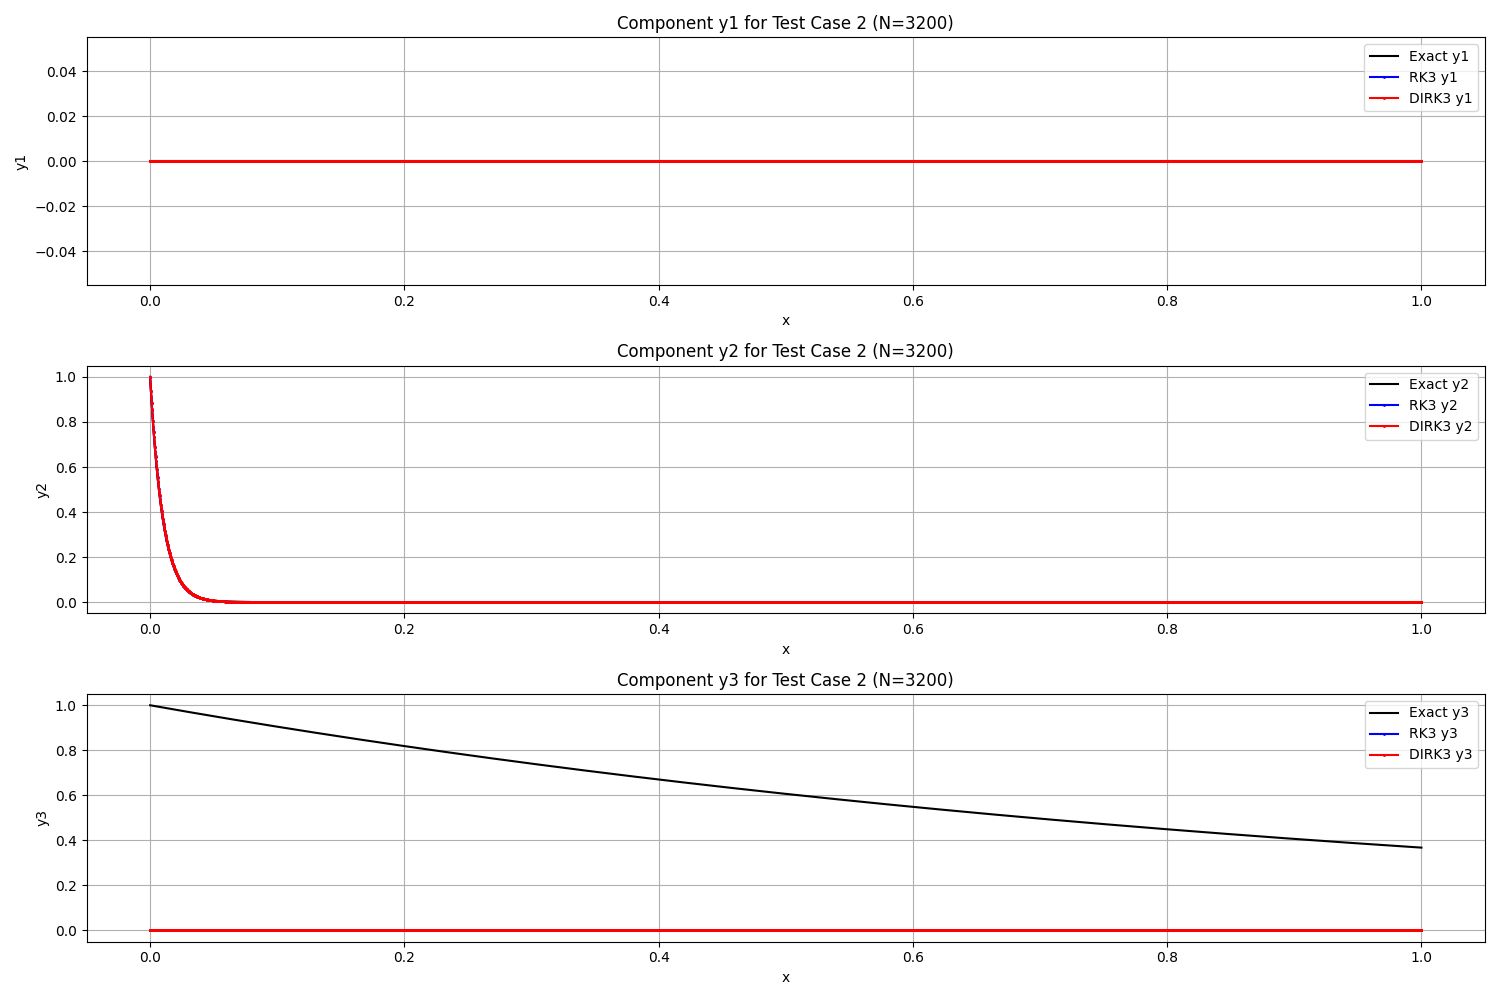
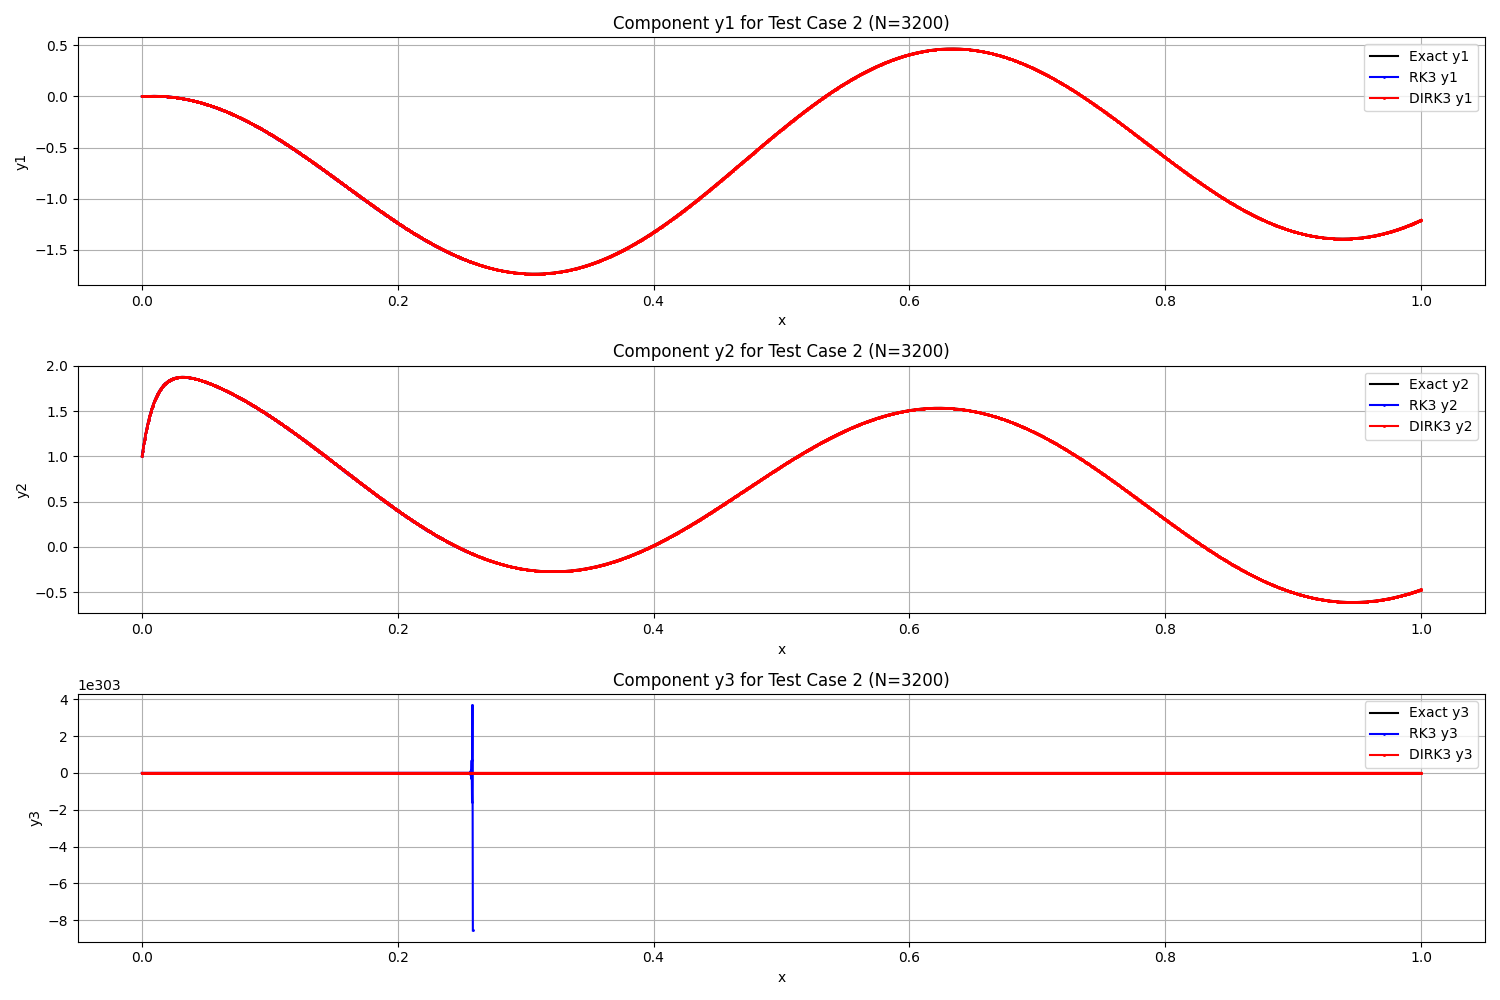
take 2

diff --git a/runge_kutta.py b/runge_kutta.py
@@ -2,11 +2,11 @@ import numpy as np
 
 def rk3(A, bvector, yo, interval, N):
     """
-    Implements the explicit third-order Runge-Kutta method for solving the ODE system dy/dx = A y + bvector.
+    Implements the explicit third-order Runge-Kutta method as specified in Equation 8.
 
     Parameters:
-    A (numpy.ndarray): The matrix A in the system dy/dx = A y + bvector. Should be a 2D array of shape (d, d) where d is the dimension.
-    bvector (numpy.ndarray): The vector b in the system. Should be a 1D array of shape (d,).
+    A (numpy.ndarray): The matrix A in the system dy/dx = A y + b(x). Should be a 2D array of shape (d, d) where d is the dimension.
+    bvector (callable): The function b(x) in the system. Should be a function that takes a float x and returns a 1D numpy array of shape (d,).
     yo (numpy.ndarray): Initial condition y(0). Should be a 1D array of shape (d,).
     interval (list or tuple): The interval [a, b] over which to solve.
     N (int): Number of steps.
@@ -21,8 +21,8 @@ def rk3(A, bvector, yo, interval, N):
     d = A.shape[0]
     if A.shape[1] != d:
         raise ValueError("A must be square.")
-    if not isinstance(bvector, np.ndarray) or bvector.shape != (d,):
-        raise ValueError("bvector must be a 1D numpy array of shape ({},).".format(d))
+    if not callable(bvector):
+        raise ValueError("bvector must be a callable function that takes x and returns a 1D numpy array of shape ({},).".format(d))
     if not isinstance(yo, np.ndarray) or yo.shape != (d,):
         raise ValueError("yo must be a 1D numpy array of shape ({},).".format(d))
     if not isinstance(interval, (list, tuple)) or len(interval) != 2:
@@ -33,35 +33,30 @@ def rk3(A, bvector, yo, interval, N):
     if not isinstance(N, (int, np.integer)) or N <= 0:
         raise ValueError("N must be a positive integer.")
 
-    # Butcher tableau for explicit RK3
-    c = np.array([0, 0.5, 1])
-    A_rk = np.array([
-        [0, 0, 0],
-        [0.5, 0, 0],
-        [-1, 2, 0]
-    ])
-    b_rk = np.array([1/6, 2/3, 1/6])
-
     h = (b - a) / N
     x = np.linspace(a, b, N+1)
     y = np.zeros((N+1, d))
     y[0] = yo
 
     for n in range(N):
-        k1 = A @ y[n] + bvector
-        k2 = A @ (y[n] + h * A_rk[1,0] * k1) + bvector
-        k3 = A @ (y[n] + h * (A_rk[2,0] * k1 + A_rk[2,1] * k2)) + bvector
-        y[n+1] = y[n] + h * (b_rk[0] * k1 + b_rk[1] * k2 + b_rk[2] * k3)
+        x_n = x[n]
+        y_n = y[n]
+        # y^{(1)} = y_n + h [A y_n + b(x_n)]
+        y1 = y_n + h * (A @ y_n + bvector(x_n))
+        # y^{(2)} = (3/4) y_n + (1/4) y^{(1)} + (1/4) h [A y^{(1)} + b(x_n + h)]
+        y2 = (3/4) * y_n + (1/4) * y1 + (1/4) * h * (A @ y1 + bvector(x_n + h))
+        # y_{n+1} = (1/3) y_n + (2/3) y^{(2)} + (2/3) h [A y^{(2)} + b(x_n + h)]
+        y[n+1] = (1/3) * y_n + (2/3) * y2 + (2/3) * h * (A @ y2 + bvector(x_n + h))
 
     return x, y
 
 def dirk3(A, bvector, yo, interval, N):
     """
-    Implements the diagonally implicit third-order Runge-Kutta method for solving the ODE system dy/dx = A y + bvector.
+    Implements the diagonally implicit third-order Runge-Kutta method as specified in Equations 9 and 10.
 
     Parameters:
-    A (numpy.ndarray): The matrix A in the system dy/dx = A y + bvector. Should be a 2D array of shape (d, d) where d is the dimension.
-    bvector (numpy.ndarray): The vector b in the system. Should be a 1D array of shape (d,).
+    A (numpy.ndarray): The matrix A in the system dy/dx = A y + b(x). Should be a 2D array of shape (d, d) where d is the dimension.
+    bvector (callable): The function b(x) in the system. Should be a function that takes a float x and returns a 1D numpy array of shape (d,).
     yo (numpy.ndarray): Initial condition y(0). Should be a 1D array of shape (d,).
     interval (list or tuple): The interval [a, b] over which to solve.
     N (int): Number of steps.
@@ -76,8 +71,8 @@ def dirk3(A, bvector, yo, interval, N):
     d = A.shape[0]
     if A.shape[1] != d:
         raise ValueError("A must be square.")
-    if not isinstance(bvector, np.ndarray) or bvector.shape != (d,):
-        raise ValueError("bvector must be a 1D numpy array of shape ({},).".format(d))
+    if not callable(bvector):
+        raise ValueError("bvector must be a callable function that takes x and returns a 1D numpy array of shape ({},).".format(d))
     if not isinstance(yo, np.ndarray) or yo.shape != (d,):
         raise ValueError("yo must be a 1D numpy array of shape ({},).".format(d))
     if not isinstance(interval, (list, tuple)) or len(interval) != 2:
@@ -88,34 +83,29 @@ def dirk3(A, bvector, yo, interval, N):
     if not isinstance(N, (int, np.integer)) or N <= 0:
         raise ValueError("N must be a positive integer.")
 
-    # Butcher tableau for DIRK3
-    gamma = (3 + np.sqrt(3)) / 6
-    c = np.array([gamma, 1, 1])
-    A_rk = np.array([
-        [gamma, 0, 0],
-        [1 - 2*gamma, gamma, 0],
-        [0.5 - gamma, 2*gamma - 1, gamma]
-    ])
-    b_rk = np.array([0, 0.5, 0.5])
+    # Coefficients from Equation 10
+    mu = 0.5 * (1 - 1 / np.sqrt(3))
+    nu = 0.5 * (np.sqrt(3) - 1)
+    gamma = 3 / (2 * (3 + np.sqrt(3)))
+    lambda_ = 3 * (1 + np.sqrt(3)) / (2 * (3 + np.sqrt(3)))
 
     h = (b - a) / N
     x = np.linspace(a, b, N+1)
     y = np.zeros((N+1, d))
     y[0] = yo
 
+    M = np.eye(d) - h * mu * A
+
     for n in range(N):
-        # Stage 1
-        rhs1 = A @ y[n] + bvector
-        k1 = np.linalg.solve(np.eye(d) - h * gamma * A, rhs1)
-
-        # Stage 2
-        rhs2 = A @ (y[n] + h * A_rk[1,0] * k1) + bvector
-        k2 = np.linalg.solve(np.eye(d) - h * gamma * A, rhs2)
-
-        # Stage 3
-        rhs3 = A @ (y[n] + h * (A_rk[2,0] * k1 + A_rk[2,1] * k2)) + bvector
-        k3 = np.linalg.solve(np.eye(d) - h * gamma * A, rhs3)
-
-        y[n+1] = y[n] + h * (b_rk[0] * k1 + b_rk[1] * k2 + b_rk[2] * k3)
+        x_n = x[n]
+        y_n = y[n]
+        # Solve for y^{(1)}: [I - h mu A] y^{(1)} = y_n + h mu b(x_n + h mu)
+        RHS1 = y_n + h * mu * bvector(x_n + h * mu)
+        y1 = np.linalg.solve(M, RHS1)
+        # Solve for y^{(2)}: [I - h mu A] y^{(2)} = y^{(1)} + h nu [A y^{(1)} + b(x_n + h mu)] + h mu b(x_n + h nu + 2 h mu)
+        RHS2 = y1 + h * nu * (A @ y1 + bvector(x_n + h * mu)) + h * mu * bvector(x_n + h * nu + 2 * h * mu)
+        y2 = np.linalg.solve(M, RHS2)
+        # y_{n+1} = (1 - lambda) y_n + lambda y^{(2)} + h gamma [A y^{(2)} + b(x_n + h nu + 2 h mu)]
+        y[n+1] = (1 - lambda_) * y_n + lambda_ * y2 + h * gamma * (A @ y2 + bvector(x_n + h * nu + 2 * h * mu))
 
     return x, y

diff --git a/test_cases.py b/test_cases.py
@@ -8,7 +8,7 @@ print("Test Case 1: Moderately Stiff System")
 a1 = 1000
 a2 = 1
 A1 = np.array([[-a1, 0], [a1, -a2]])
-bvector1 = np.zeros(2)
+bvector1 = lambda x: np.zeros(2)
 yo1 = np.array([1.0, 0.0])
 interval1 = [0, 0.1]
 
@@ -39,7 +39,6 @@ for i, N in enumerate(N_values):
     
     errors_rk3.append(error_rk3)
     errors_dirk3.append(error_dirk3)
-    print(f"N={N}, h={h}, error_rk3={error_rk3}, error_dirk3={error_dirk3}")
 
 errors_rk3 = np.array(errors_rk3)
 errors_dirk3 = np.array(errors_dirk3)
@@ -91,16 +90,27 @@ plt.show()
 # Test Case 2: Stiff System
 print("Test Case 2: Stiff System")
 
-# Assuming A from Equation 106, b from 108, yo from 109
-# Since not specified, using a standard stiff 3x3 system
-A2 = np.array([[-1000, 0, 0], [0, -100, 0], [0, 0, -1]])
-bvector2 = np.zeros(3)
+# A from Equation 106
+A2 = np.array([[-1, 0, 0], [-99, -100, 0], [-10098, 9900, -10000]])
+# b(x) from Equation 108
+def bvector2(x):
+    return np.array([np.cos(10*x) - 10*np.sin(10*x), 199*np.cos(10*x) - 10*np.sin(10*x), 208*np.cos(10*x) + 10000*np.sin(10*x)])
+# yo from Equation 109
 yo2 = np.array([0.0, 1.0, 0.0])
 interval2 = [0, 1]
 
-# Exact solution
+# Exact solution from Equation 110
 def exact_y2(x):
-    return np.column_stack([np.zeros_like(x), np.exp(-100 * x), np.exp(-x)])
+    x = np.asarray(x)
+    cos10x = np.cos(10*x)
+    sin10x = np.sin(10*x)
+    e_x = np.exp(-x)
+    e_100x = np.exp(-100*x)
+    e_10000x = np.exp(-10000*x)
+    y1 = cos10x - e_x
+    y2 = cos10x + e_x - e_100x
+    y3 = sin10x + 2*e_x - e_100x - e_10000x
+    return np.column_stack([y1, y2, y3])
 
 k_values2 = np.arange(4, 17)
 N_values2 = 200 * k_values2
